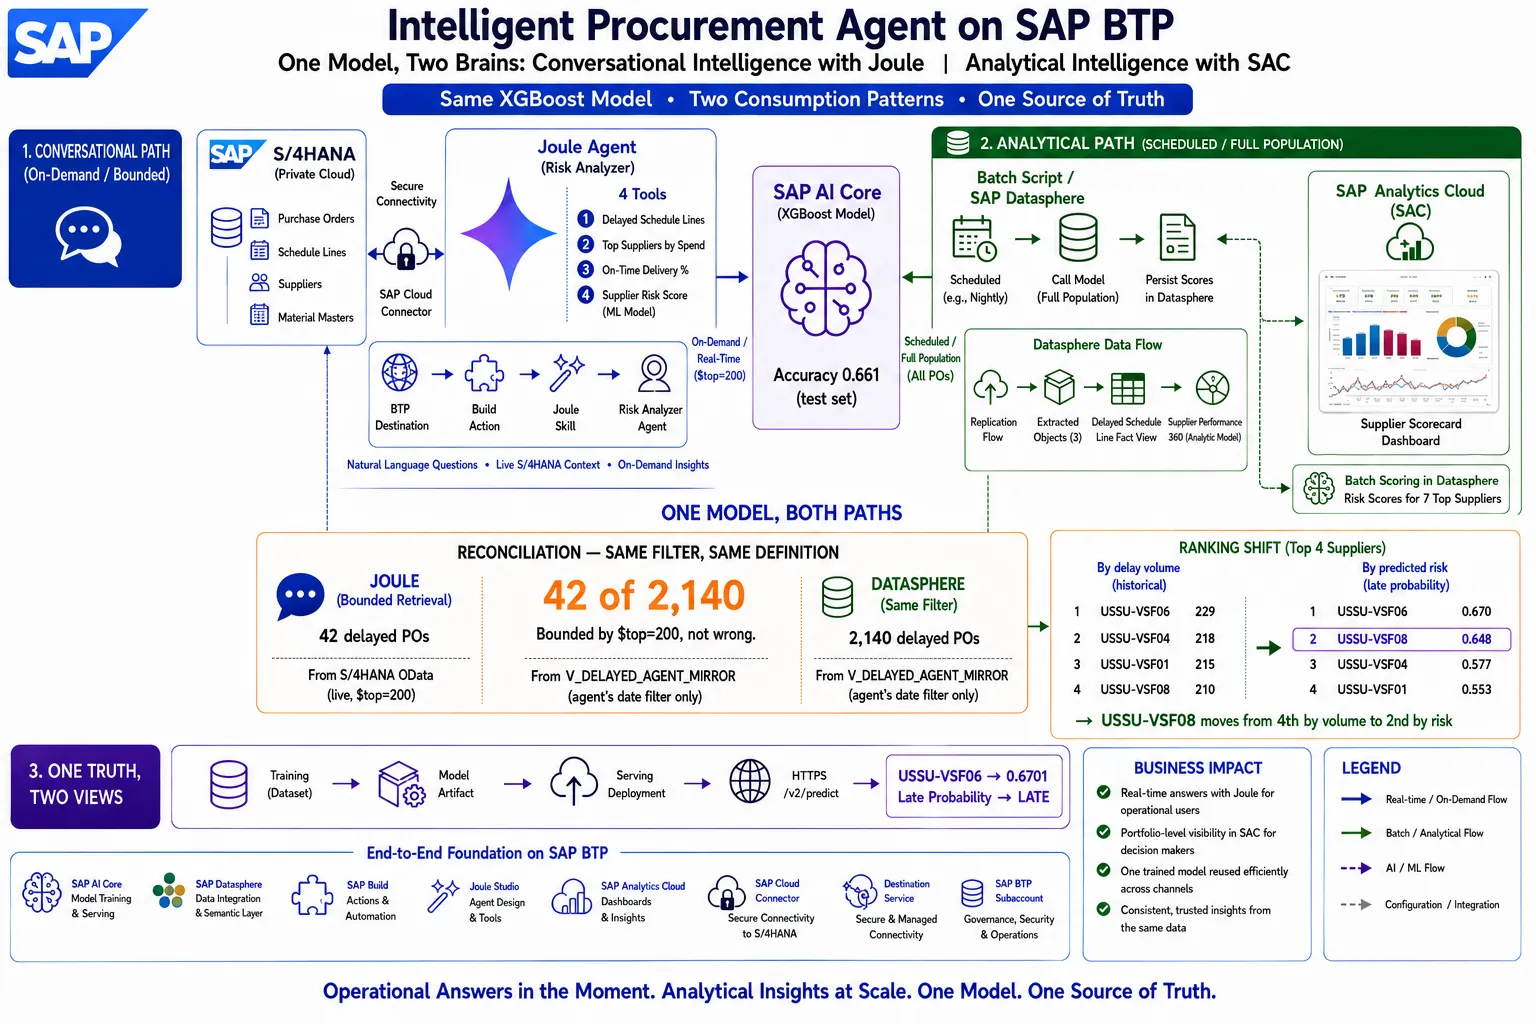
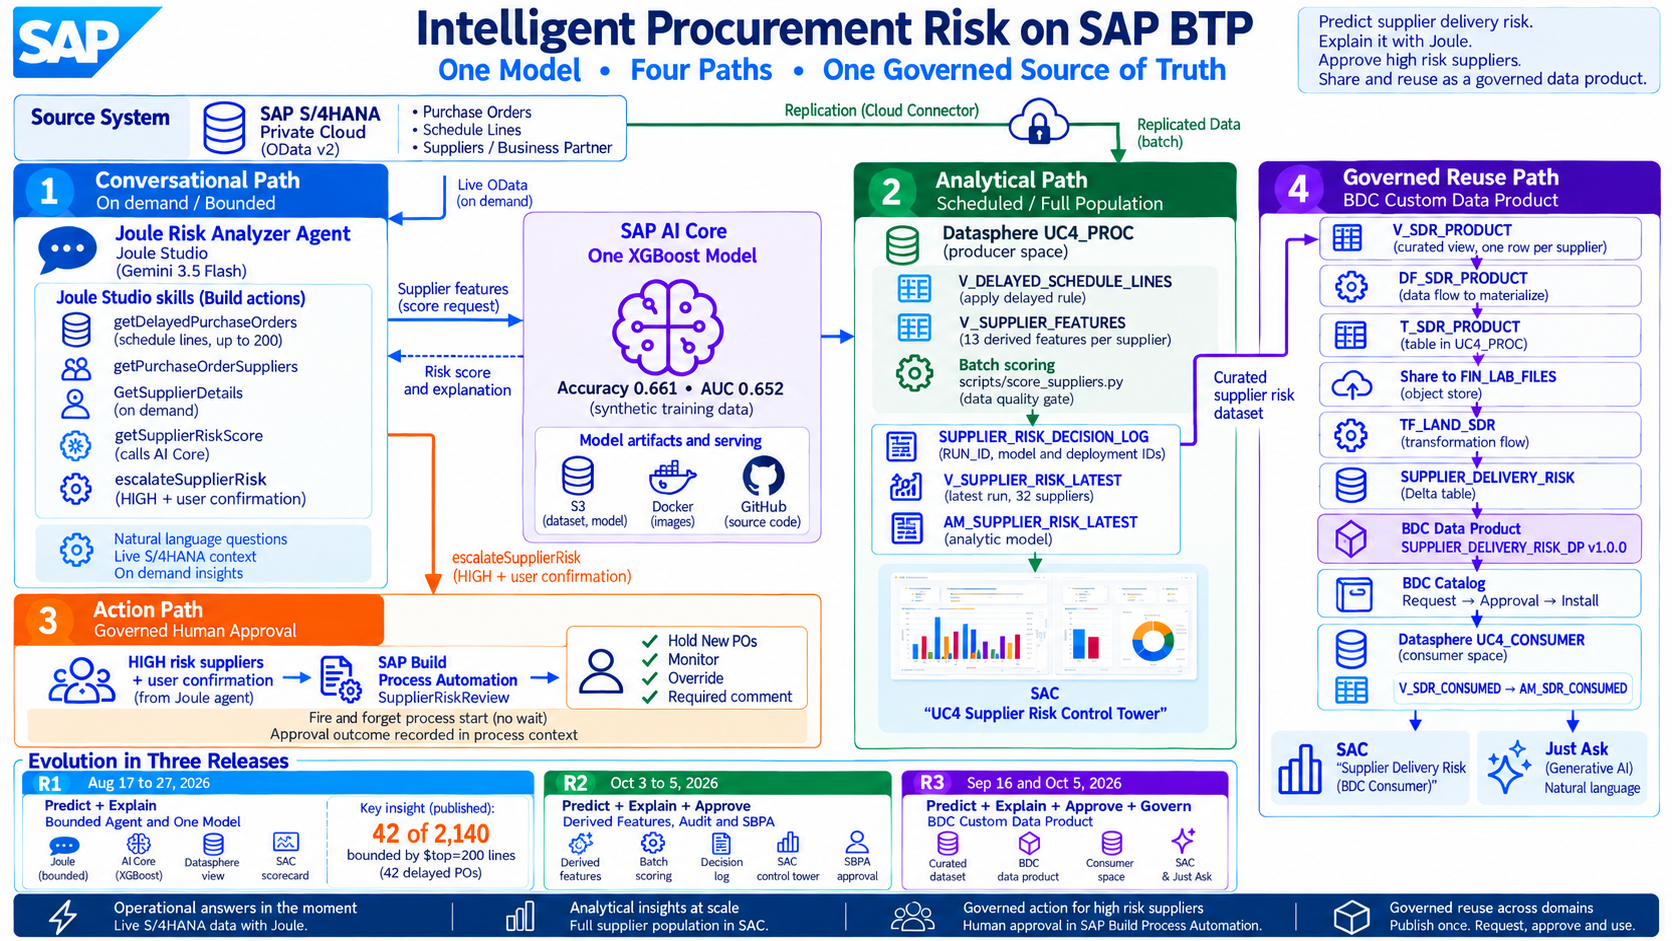
Final README paths and architecture visuals

diff --git a/joule-joule-studio/uc4-procurement-agent/README.md b/joule-joule-studio/uc4-procurement-agent/README.md
@@ -26,7 +26,7 @@ A procurement manager asks: which suppliers will deliver late, why, how much val
    getDelayedPurchaseOrders                      PO header, item, schedule lines
    getPurchaseOrderSuppliers                     V_DELAYED_SCHEDULE_LINES
    GetSupplierDetails (on demand)                V_SUPPLIER_FEATURES (13 derived features)
-   getSupplierRiskScore ----+                        | scripts/score_suppliers.py (batch)
+   getSupplierRiskScore ----+                        | scoring/score_suppliers.py (batch)
    escalateSupplierRisk     |                        v
         |                   +-------------->  SAP AI Core: one XGBoost model (/v2/predict)
         | HIGH + user                                 |
@@ -70,13 +70,15 @@ The project was built in three releases. Each release closed limitations that th
 * **Joule to AI Core:** Build action plus Joule skill bound through destination `AICORE_INFERENCE` (Joule Studio environment variable).
 * **Analytical mirror:** `V_DELAYED_AGENT_MIRROR`, `V_SUPPLIER_RISK_SCORES`, `AM_SUPPLIER_RISK_SCORES`, SAC "UC4 Supplier Scorecard".
 * **Key insight, 42 of 2,140:** the agent reported 42 delayed POs across 11 suppliers; the same date filter on the full replicated population returned 2,140 POs, 34 suppliers and 10,732 schedule lines. The agent was not wrong; it was bounded by `$top=200`.
+![R1 bounded agent and one model](docs/images/uc4_r1_bounded_agent.png)
+
 * **Ranking shift:** by delay volume USSU-VSF06, VSF04, VSF01, VSF08; by predicted risk USSU-VSF06 (0.670), VSF08 (0.648), VSF04 (0.577), VSF01 (0.553). VSF08 moved from fourth to second.
 
 ### R2: derived features, audit and approval
 
 * **Redeploy and contract:** serving redeployed from the same configuration and artifact; an empty POST returned a 422 listing all 13 required fields. The Joule score skill was found sending only 5 of 13 fields and was fixed.
 * **Derived features:** `V_SUPPLIER_FEATURES` computes per supplier features from replicated header, item and schedule line data (lead times floored at 1 day, blank supplier excluded, 32 suppliers). This replaced the hand set features that made every supplier score identically in R1.
-* **Batch scoring:** `scripts/score_suppliers.py` reads features through a Datasphere database user, calls AI Core per supplier, and appends results with RUN_ID, model and deployment IDs to `UC4_PROC#SCORING.SUPPLIER_RISK_DECISION_LOG`. A data quality gate marks invalid rows SKIPPED_DQ. Latest run: 31 of 32 scored; HIGH 9, MEDIUM 10, LOW 12.
+* **Batch scoring:** `scoring/score_suppliers.py` reads features through a Datasphere database user, calls AI Core per supplier, and appends results with RUN_ID, model and deployment IDs to `UC4_PROC#SCORING.SUPPLIER_RISK_DECISION_LOG`. A data quality gate marks invalid rows SKIPPED_DQ. Latest run: 31 of 32 scored; HIGH 9, MEDIUM 10, LOW 12.
 * **Semantic and SAC:** `V_SUPPLIER_RISK_LATEST` and `AM_SUPPLIER_RISK_LATEST` (average late probability divides by scored suppliers only), SAC "UC4 Supplier Risk Control Tower".
 * **Approval:** SBPA `SupplierRiskReview` 1.0.1 with API trigger, approval form (Hold New POs, Monitor, Override), required comment, two day due date, published to the Library.
 * **Escalation:** Joule skill `escalateSupplierRisk` (Check Condition riskBand = HIGH, Run Process without waiting, StringToNumber for probability); agent 1.0.23. When live scoring was unavailable the agent used the last valid batch score, said so, asked for confirmation and started the review.
@@ -104,7 +106,7 @@ The project was built in three releases. Each release closed limitations that th
 | Replication | C_PURCHASEORDERDEX, C_PURCHASEORDERITEMDEX, C_PURORDSCHEDULELINEDEX | R1 |
 | Delay logic | V_DELAYED_AGENT_MIRROR, V_DELAYED_SCHEDULE_LINES | R1 |
 | Features | V_SUPPLIER_FEATURES (13 derived features) | R2 |
-| Batch and audit | scripts/score_suppliers.py, SUPPLIER_RISK_DECISION_LOG | R2 |
+| Batch and audit | scoring/score_suppliers.py, SUPPLIER_RISK_DECISION_LOG | R2 |
 | Semantic | AM_SUPPLIER_RISK_SCORES (R1), AM_SUPPLIER_RISK_LATEST (R2) | R1, R2 |
 | Analytics | SAC "UC4 Supplier Scorecard" (R1), "UC4 Supplier Risk Control Tower" (R2) | R1, R2 |
 | Approval | SBPA SupplierRiskReview 1.0.1 | R2 |
@@ -212,19 +214,20 @@ The solution already worked inside Datasphere. BDC turned the curated result int
 
 ## Repository contents
 
-* `scripts/score_suppliers.py`: batch scorer (Datasphere features to AI Core to decision log).
+* `scoring/score_suppliers.py`: batch scorer (Datasphere features to AI Core to decision log).
 * `sql/V_SDR_PRODUCT.sql`: curated data product source view.
 * `sql/validation_checks.sql`: column, currency, reconciliation and grain checks.
 * `docs/images/`: architecture overview and curated screenshots.
 * `.env.example`: variable names only; `.env` is gitignored.
-* AI Core training and serving code lives in `supplier-prediction-tutorial/` at the repository root (AI Core Git sync path).
+* AI Core training and serving code lives in `ai-core/tutorials/supplier-prediction-tutorial/` in this repository (AI Core Git sync path).
 
 ## Run the batch scorer
 
 ```bash
 pip install requests hdbcli python-dotenv
+cd scoring
 cp .env.example .env   # fill values
-python scripts/score_suppliers.py
+python score_suppliers.py
 ```
 
 ## Roadmap
